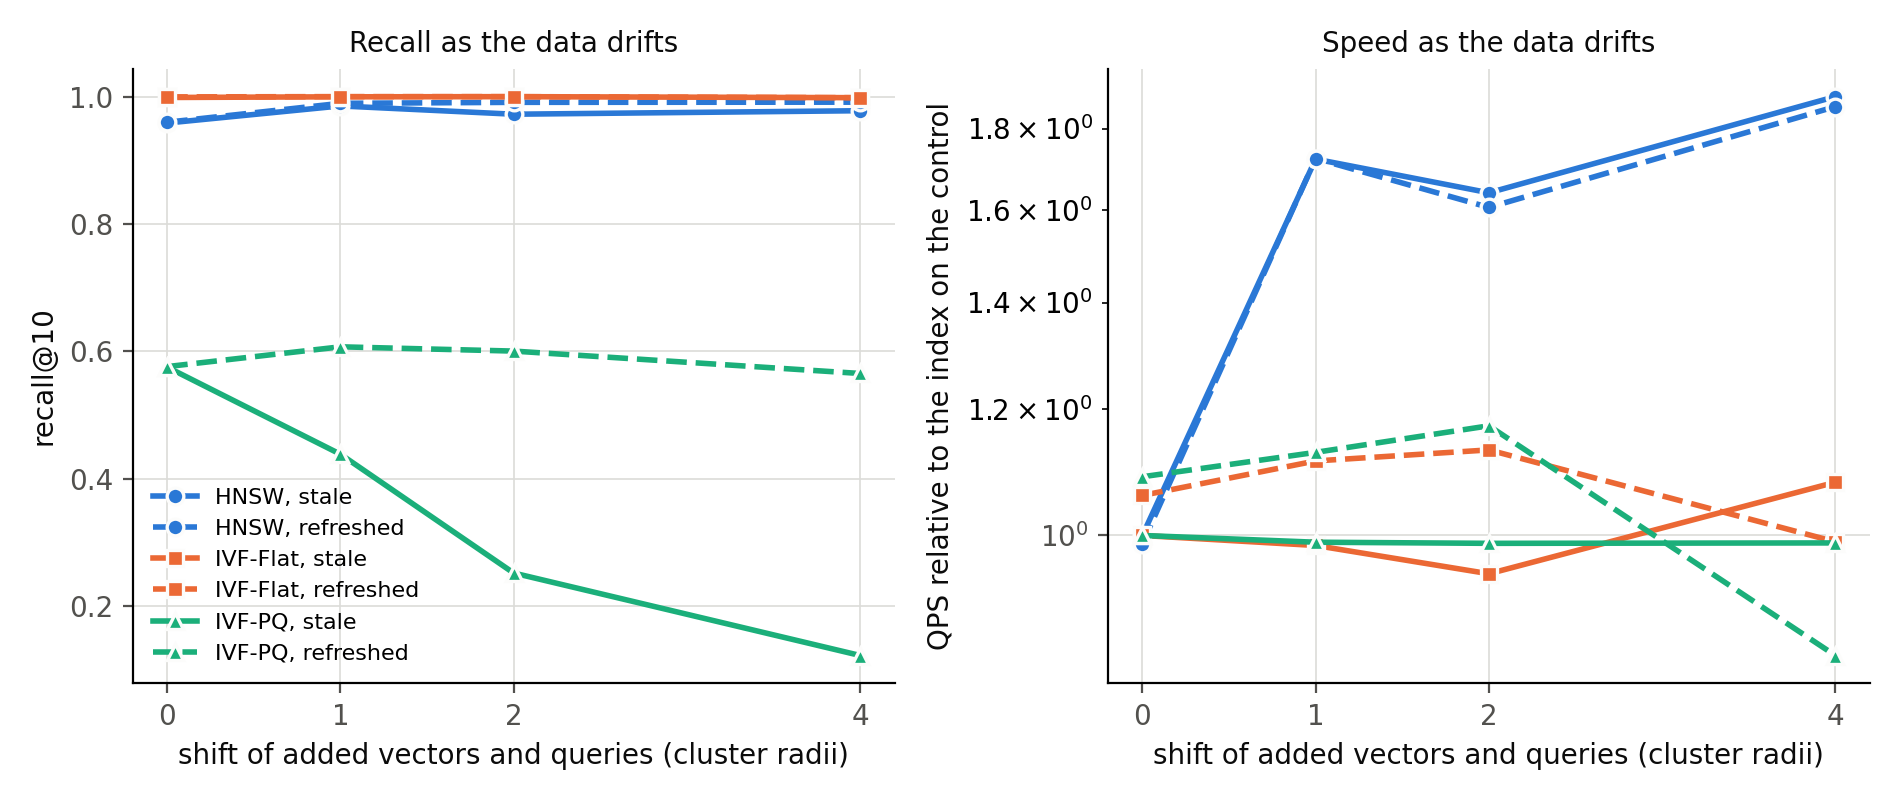
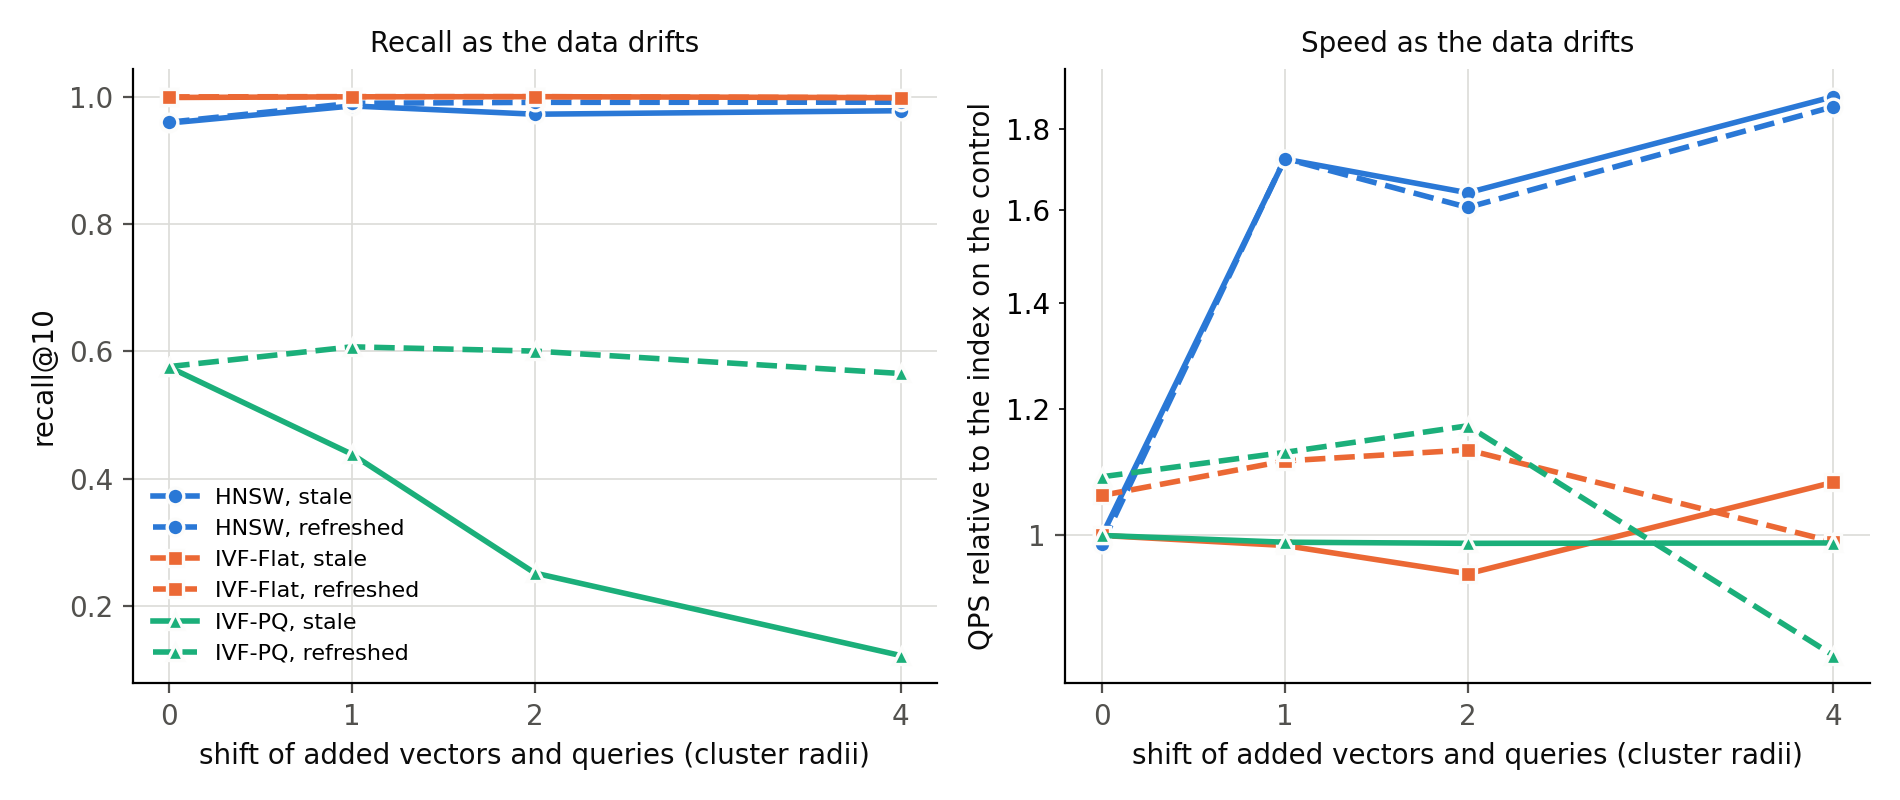
Part 4: outcome note and figure axis labels

diff --git a/code/src/drift_analysis.py b/code/src/drift_analysis.py
@@ -13,6 +13,7 @@ import matplotlib
 matplotlib.use("Agg")
 import matplotlib.pyplot as plt
 import pandas as pd
+from matplotlib.ticker import FuncFormatter
 
 from plots import GRID, INK, MUTED, STYLE
 from results_log import FIGURES_DIR, RESULTS_CSV
@@ -81,6 +82,9 @@ def main():
     ax_r.set_ylabel("recall@10", color=INK)
     ax_s.set_ylabel("QPS relative to the index on the control", color=INK)
     ax_s.set_yscale("log")
+    plain = FuncFormatter(lambda v, _: f"{v:g}")
+    ax_s.yaxis.set_major_formatter(plain)
+    ax_s.yaxis.set_minor_formatter(plain)
     for ax, title in ((ax_r, "Recall as the data drifts"), (ax_s, "Speed as the data drifts")):
         ax.set_xlabel("shift of added vectors and queries (cluster radii)", color=INK)
         ax.set_xticks(shifts)
